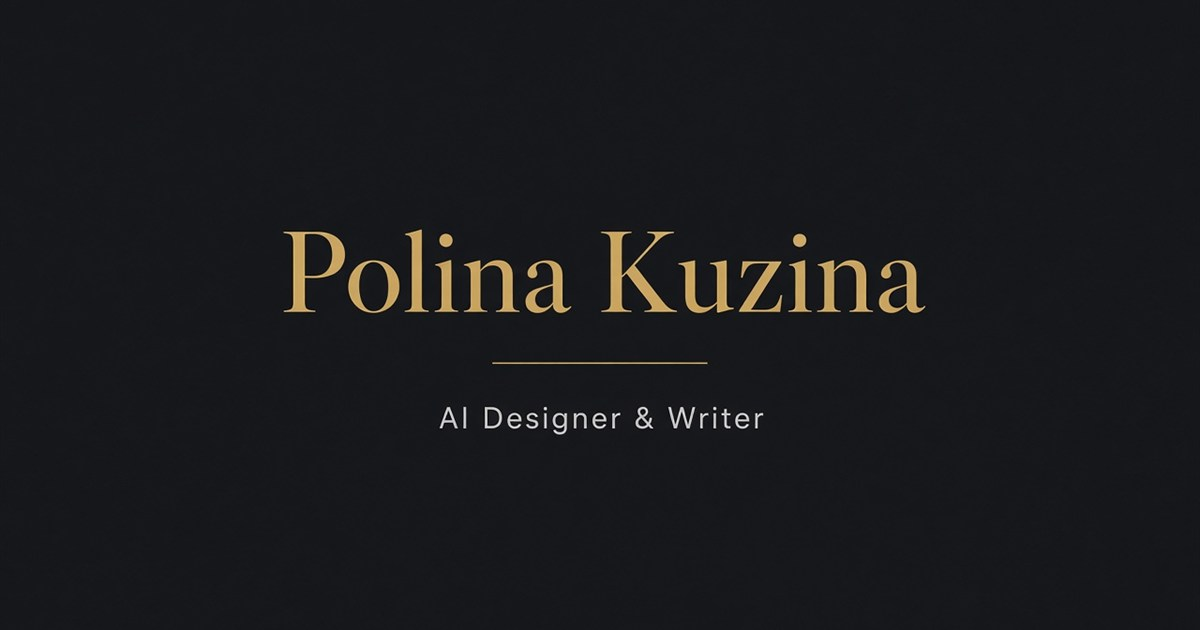
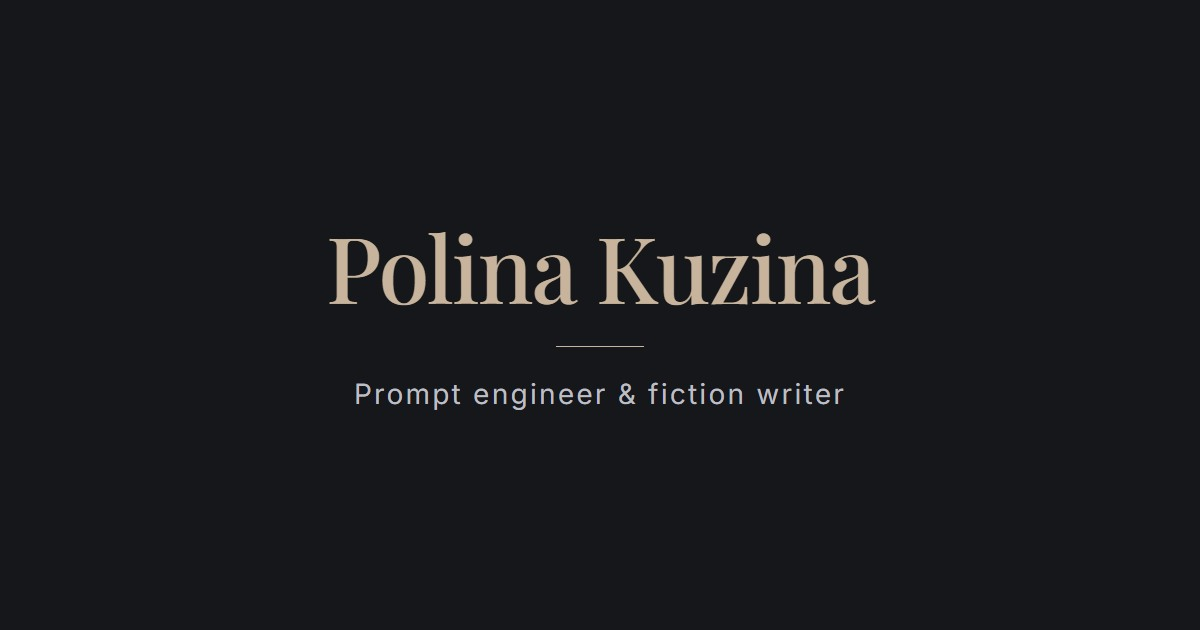
Сменила роль на «промпт-инженер и автор прозы», сблизила колонки Hero на десктопе и подсвечиваю меню по центру экрана.

Changed region(s): [[0.2158, 0.3619, 0.7708, 0.5127], [0.2775, 0.573, 0.7092, 0.6937]]

diff --git a/index.html b/index.html
@@ -5,12 +5,12 @@
   <script>
     (function () {
       var titles = {
-        en: "Polina Kuzina — AI Engineer & Prompt Engineer",
-        ru: "Полина Кузина — ИИ-инженер и промпт-инженер"
+        en: "Polina Kuzina — Prompt engineer & fiction writer",
+        ru: "Полина Кузина — Промпт-инженер и автор прозы"
       };
       var descriptions = {
-        en: "AI Engineer & Prompt Engineer. I design AI agents and conversations that sound human, and I write prose.",
-        ru: "ИИ-инженер и промпт-инженер. Проектирую ИИ-агентов и диалоги, которые звучат по-человечески, и пишу прозу."
+        en: "Prompt engineer & fiction writer. I design AI agents and conversations that sound human — and in my free time I write about what makes us human.",
+        ru: "Промпт-инженер и автор прозы. Проектирую ИИ-агентов и диалоги, которые звучат по-человечески. А в свободное время пишу о том, что делает нас людьми."
       };
       var lang = "en";
       try {
@@ -27,22 +27,22 @@
   <link rel="apple-touch-icon" href="apple-touch-icon.png" />
   <meta name="theme-color" content="#1A1D24" />
   <meta name="viewport" content="width=device-width, initial-scale=1.0" />
-  <title>Polina Kuzina — AI Engineer &amp; Prompt Engineer</title>
-  <meta name="description" content="AI Engineer & Prompt Engineer. I design AI agents and conversations that sound human, and I write prose." />
+  <title>Polina Kuzina — Prompt engineer &amp; fiction writer</title>
+  <meta name="description" content="Prompt engineer &amp; fiction writer. I design AI agents and conversations that sound human — and in my free time I write about what makes us human." />
   <link rel="canonical" href="https://kuzuya17.github.io/portfolio/" />
   <meta property="og:type" content="website" />
   <meta property="og:locale" content="ru_RU" />
   <meta property="og:locale:alternate" content="en_US" />
   <meta property="og:url" content="https://kuzuya17.github.io/portfolio/" />
-  <meta property="og:title" content="Полина Кузина — ИИ-инженер и промпт-инженер" />
-  <meta property="og:description" content="ИИ-инженер и промпт-инженер. Проектирую ИИ-агентов и диалоги, которые звучат по-человечески, и пишу прозу." />
+  <meta property="og:title" content="Полина Кузина — Промпт-инженер и автор прозы" />
+  <meta property="og:description" content="Промпт-инженер и автор прозы. Проектирую ИИ-агентов и диалоги, которые звучат по-человечески. А в свободное время пишу о том, что делает нас людьми." />
   <meta property="og:image" content="https://kuzuya17.github.io/portfolio/og-image.jpg" />
   <meta property="og:image:width" content="1200" />
   <meta property="og:image:height" content="630" />
-  <meta property="og:image:alt" content="Полина Кузина — ИИ-инженер и промпт-инженер" />
+  <meta property="og:image:alt" content="Полина Кузина — Промпт-инженер и автор прозы" />
   <meta name="twitter:card" content="summary_large_image" />
-  <meta name="twitter:title" content="Полина Кузина — ИИ-инженер и промпт-инженер" />
-  <meta name="twitter:description" content="ИИ-инженер и промпт-инженер. Проектирую ИИ-агентов и диалоги, которые звучат по-человечески, и пишу прозу." />
+  <meta name="twitter:title" content="Полина Кузина — Промпт-инженер и автор прозы" />
+  <meta name="twitter:description" content="Промпт-инженер и автор прозы. Проектирую ИИ-агентов и диалоги, которые звучат по-человечески. А в свободное время пишу о том, что делает нас людьми." />
   <meta name="twitter:image" content="https://kuzuya17.github.io/portfolio/og-image.jpg" />
   <script>
     (function () {
@@ -307,7 +307,7 @@
 
   <main id="main">
     <section class="min-h-[85vh] flex items-center pt-6 pb-16 px-6" aria-labelledby="hero-name">
-      <div class="max-w-[75rem] mx-auto grid md:grid-cols-2 gap-8 items-center w-full">
+      <div class="mx-auto grid w-full max-w-[75rem] items-center gap-8 md:grid-cols-2 lg:max-w-[72rem] lg:grid-cols-[auto_minmax(0,36rem)] lg:justify-center lg:gap-x-20">
         <div class="fade-up flex justify-center md:justify-start">
           <div class="relative w-64 sm:w-72 md:w-80 aspect-[4/5]">
             <div class="relative w-full h-full">
@@ -338,12 +338,12 @@
             <span class="lang-ru">Полина Кузина</span>
           </h1>
           <h2 class="mt-3 font-serif italic text-xl sm:text-2xl text-amber">
-            <span class="lang-en">AI Engineer &amp; Prompt Engineer · I write prose</span>
-            <span class="lang-ru">ИИ-инженер и промпт-инженер · пишу прозу</span>
+            <span class="lang-en">Prompt engineer &amp; fiction writer</span>
+            <span class="lang-ru">Промпт-инженер и автор прозы</span>
           </h2>
-          <p class="mt-6 text-muted leading-relaxed max-w-md mx-auto md:mx-0">
-            <span class="lang-en">I design AI agents and conversations that sound human. I write prose about psychology.</span>
-            <span class="lang-ru">Проектирую ИИ-агентов и диалоги, которые звучат по-человечески. Пишу прозу о психологии.</span>
+          <p class="mt-6 text-muted leading-relaxed max-w-md mx-auto md:mx-0 lg:max-w-none">
+            <span class="lang-en">I design AI agents and conversations that sound human — and in my free time I write about what makes us human.</span>
+            <span class="lang-ru">Проектирую ИИ-агентов и диалоги, которые звучат по-человечески. А в свободное время пишу о том, что делает нас людьми.</span>
           </p>
           <div class="mt-8 flex flex-wrap gap-4 justify-center md:justify-start">
             <a href="mailto:kuzina.polina2015@gmail.com" class="btn-primary px-6 py-3">
@@ -901,15 +901,26 @@
       else fadeObserver.observe(el);
     });
 
-    const navObserver = new IntersectionObserver(function (entries) {
-      entries.forEach(function (entry) {
-        if (!entry.isIntersecting) return;
-        var id = entry.target.id;
-        document.querySelectorAll("[data-nav]").forEach(function (link) {
-          link.classList.toggle("is-active", link.getAttribute("href") === "#" + id);
-        });
+    var navSections = ["about", "skills", "projects", "contact"];
+    const navObserver = new IntersectionObserver(function () {
+      var bandTop = window.innerHeight * 0.45;
+      var bandBottom = window.innerHeight * 0.55;
+      var current = null;
+      var best = 0;
+      navSections.forEach(function (id) {
+        var el = document.getElementById(id);
+        if (!el) return;
+        var rect = el.getBoundingClientRect();
+        var overlap = Math.min(rect.bottom, bandBottom) - Math.max(rect.top, bandTop);
+        if (overlap > best) {
+          best = overlap;
+          current = id;
+        }
       });
-    }, { rootMargin: "-45% 0px -45% 0px", threshold: 0 });
+      document.querySelectorAll("[data-nav]").forEach(function (link) {
+        link.classList.toggle("is-active", current !== null && link.getAttribute("href") === "#" + current);
+      });
+    }, { rootMargin: "-45% 0px -45% 0px", threshold: [0, 0.2, 0.5] });
 
     ["about", "skills", "projects", "contact"].forEach(function (id) {
       var el = document.getElementById(id);
